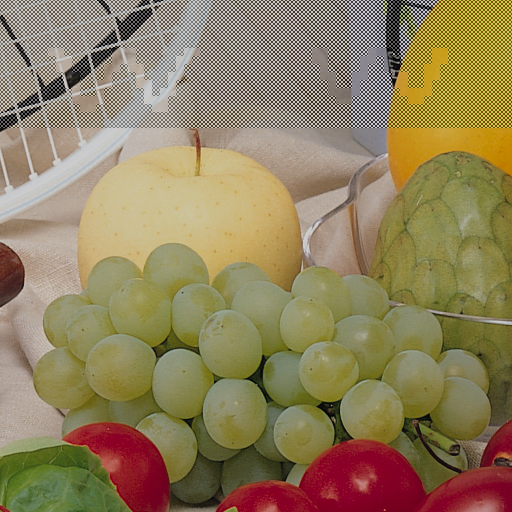
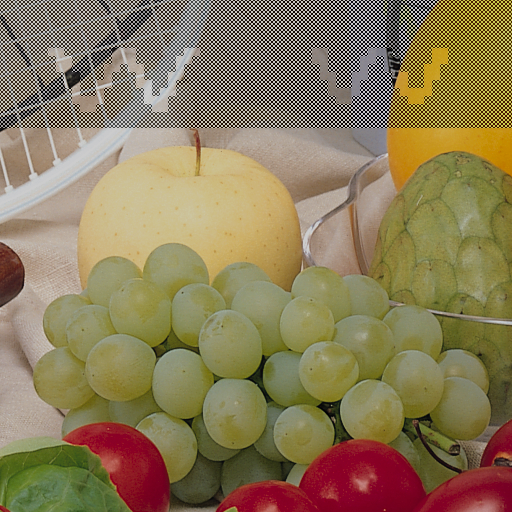
project2 代码更新

Changed region(s): [[0.0, 0.0, 1.0, 0.25]]

diff --git a/Project2/src/image_attacks.py b/Project2/src/image_attacks.py
@@ -107,15 +107,31 @@ class ImageAttacker:
             save_image(adjusted_image, self._get_output_path(output_path, "bright_contrast", f"a{alpha}_b{beta}"))
         return adjusted_image
 
-    # 在image_attacks.py中修改
-    def jpeg_compress(self, image, quality, output_path):
-        # 确保输出路径使用.jpg扩展名
-        base_name = os.path.splitext(output_path)[0]
-        jpeg_path = f"{base_name}_jpeg{quality}.jpg"
-
-        # 保存为JPEG
-        cv2.imwrite(jpeg_path, image, [int(cv2.IMWRITE_JPEG_QUALITY), quality])
-        return cv2.imread(jpeg_path)  # 返回加载的图像数据
+    def jpeg_compress(self, image_data, quality, output_path=None):
+        """
+        JPEG 压缩图片。
+        Args:
+            image_data (np.array): 图片数据。
+            quality (int): JPEG 压缩质量 (0-100, 100为最高质量)。
+            output_path (str): 保存路径。
+        Returns:
+            np.array: 压缩后的图片。
+        """
+        # 注意：cv2.imwrite 会根据文件扩展名自动处理压缩
+        # 所以这里我们只改变 output_path 的扩展名为 .jpg
+        if output_path:
+            # 确保保存路径是 .jpg
+            jpeg_output_path = os.path.splitext(output_path)[0] + f"_jpeg{quality}.jpg"
+            cv2.imwrite(jpeg_output_path, image_data, [cv2.IMWRITE_JPEG_QUALITY, quality])
+            print(f"JPEG 压缩图片已保存到: {jpeg_output_path}")
+            # 重新加载压缩后的图片，因为 imwrite 保存后可能无法直接使用原始数据进行后续处理
+            # 尤其是有损压缩
+            return load_image(jpeg_output_path)
+        else:
+            # 如果没有输出路径，则不能直接进行 JPEG 压缩
+            # 因为 JPEG 压缩是有损的，需要保存和重新加载才能体现效果
+            print("警告: JPEG压缩需要指定 output_path 来保存并重新加载以体现压缩效果。")
+            return image_data
 
 
 if __name__ == "__main__":

diff --git a/Project2/main.py b/Project2/main.py
@@ -18,7 +18,7 @@ ATTACKED_IMAGES_DIR = 'results/attacked_images/'
 EXTRACTED_WATERMARKS_DIR = 'results/extracted_watermarks/'
 
 WATERMARK_SIZE = (32, 32)  # 原始水印尺寸，必须和生成水印时一致
-EMBED_ALPHA = 3.0  # 水印嵌入强度，需要反复试验找到最佳值
+EMBED_ALPHA = 5.0  # 水印嵌入强度，需要反复试验找到最佳值
 
 
 def main():
@@ -189,24 +189,13 @@ def main():
     # JPEG 压缩
     print("测试 JPEG 压缩...")
     for quality in [90, 75, 50, 25]:
-        attacked_img = attacker.jpeg_compress(watermarked_image, quality, base_attack_path)
-        if attacked_img is None:
-            print(f"  - JPEG Q{quality}: 压缩失败")
+        attacked_img_path = attacker.jpeg_compress(watermarked_image, quality, base_attack_path)
+        if attacked_img_path is None:
+            print(f"  - JPEG 压缩质量 {quality}: 攻击失败")
             continue
 
-        # 1. 先把攻击后的数组保存成临时文件（与原图同名，带后缀）
-        jpeg_attack_path = os.path.join(
-            ATTACKED_IMAGES_DIR,
-            f"fruits_watermarked_jpeg{quality}.jpg"
-        )
-        save_image(attacked_img, jpeg_attack_path)
-
-        # 2. 再用已有接口提取
-        extracted_wm_path = os.path.join(
-            EXTRACTED_WATERMARKS_DIR,
-            f"extracted_wm_jpeg{quality}.png"
-        )
-        extracted_wm = extractor.extract_watermark(jpeg_attack_path, extracted_wm_path)
+        extracted_wm_path = os.path.join(EXTRACTED_WATERMARKS_DIR, f"extracted_wm_jpeg{quality}.png")
+        extracted_wm = extractor.extract_watermark(attacked_img_path, extracted_wm_path)
 
         if extracted_wm is not None:
             ncc = calculate_ncc(original_watermark, extracted_wm)
